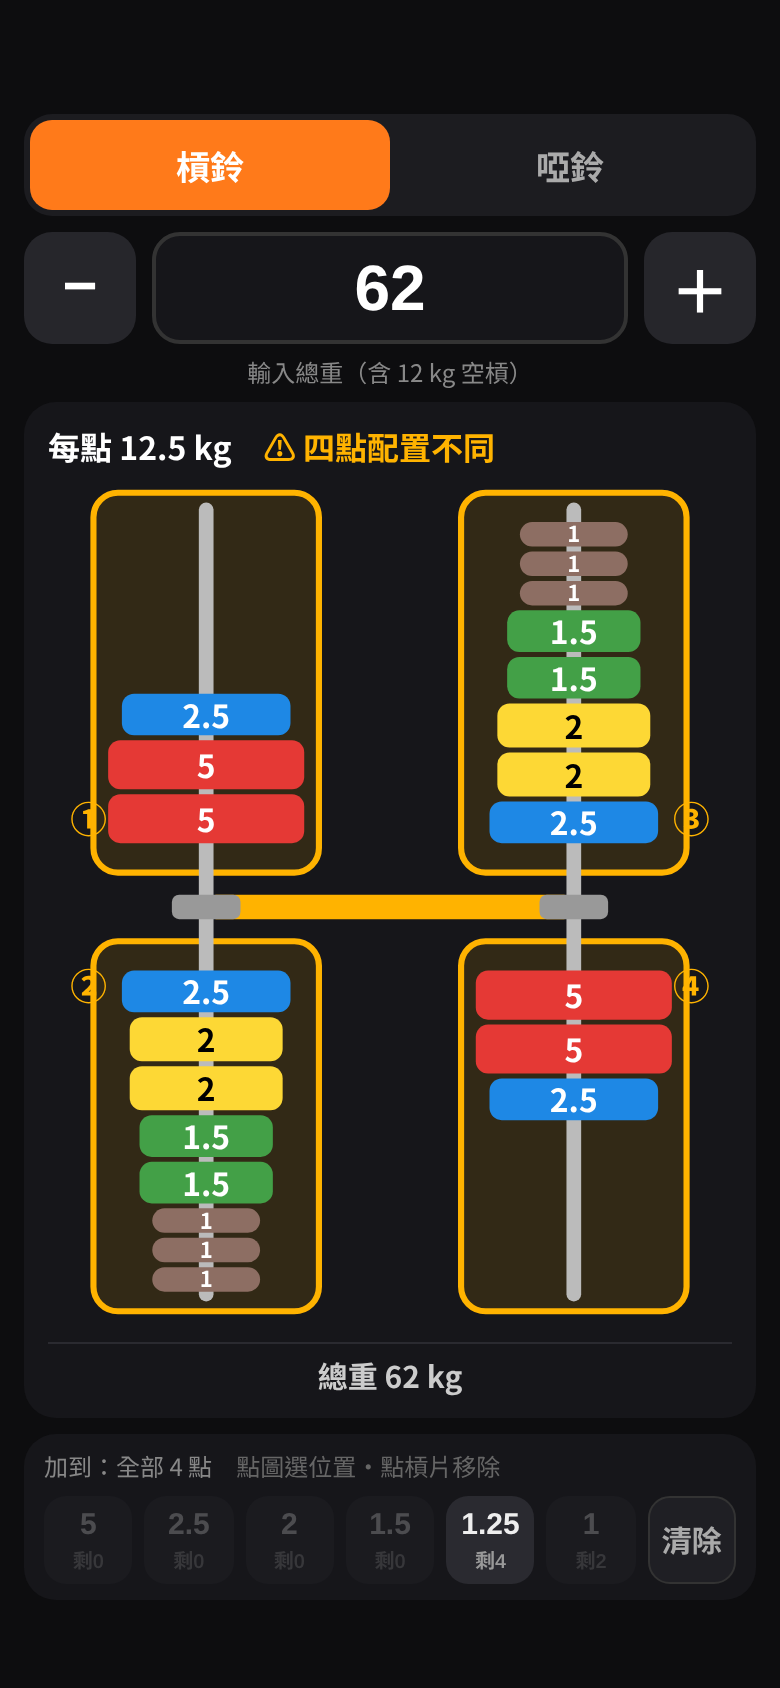
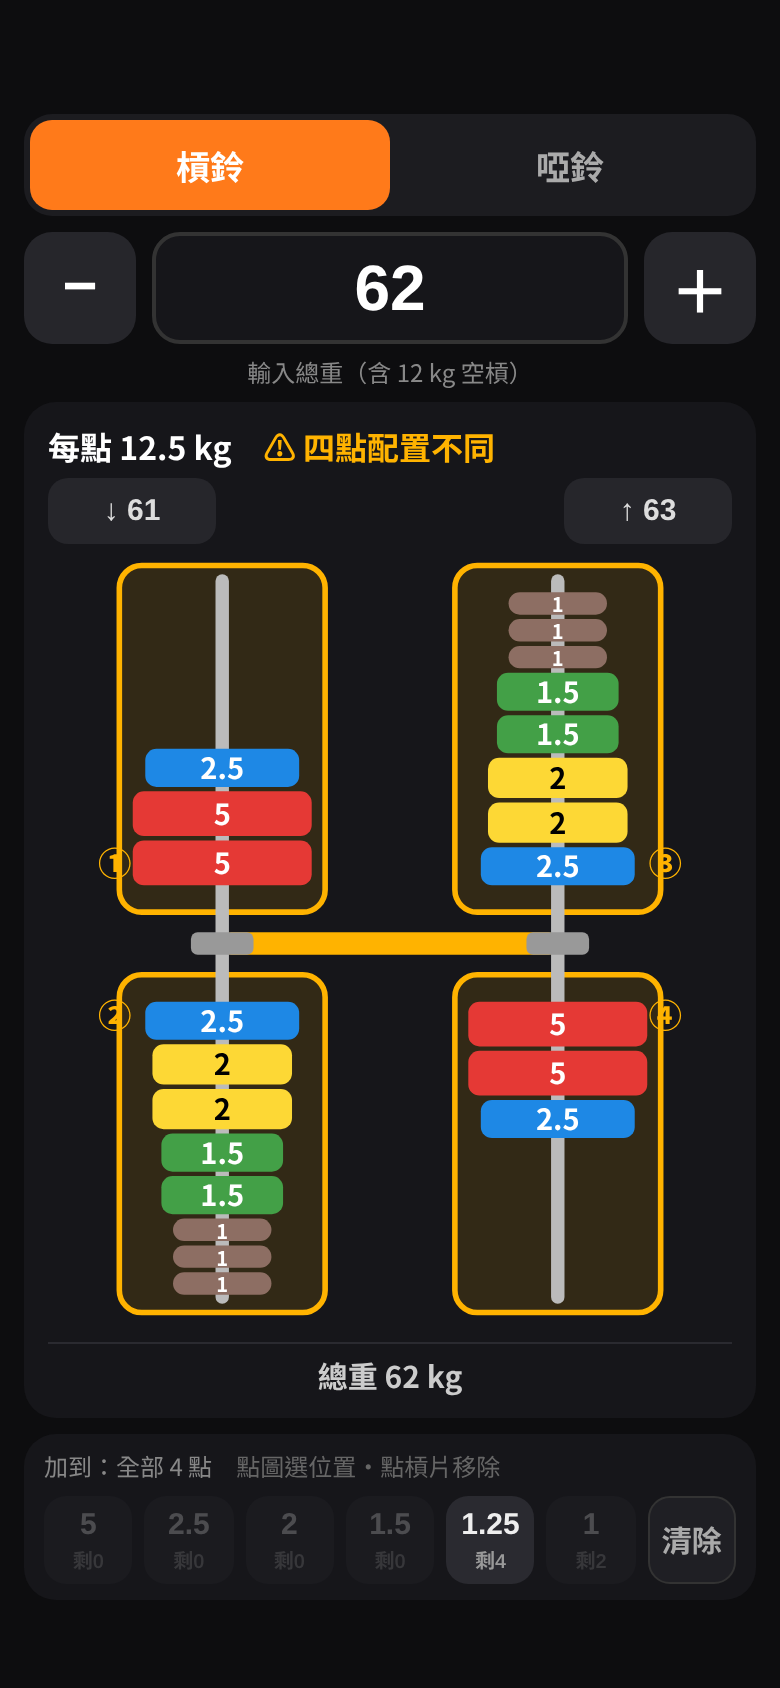
Always-on prev/next jump buttons

Changed region(s): [[0.0923, 0.2773, 0.8923, 0.8009], [0.3692, 0.7701, 0.4, 0.8009]]

diff --git a/index.html b/index.html
@@ -25,6 +25,7 @@ svg{flex:1 1 0;min-height:50px;width:100%;height:100%;display:block}
 .pbs{display:grid;grid-template-columns:repeat(auto-fit,minmax(40px,1fr));gap:6px}
 .pbs button{min-height:44px;border:0;border-radius:11px;background:#2a2a30;color:#eee;font-size:15px;font-weight:800;padding:0}
 .pbs button small{display:block;font-size:10px;font-weight:600;color:#999;margin-top:1px}
+.jump{display:flex;justify-content:space-between;gap:8px;flex:none;margin-bottom:4px}.jump button{border:0;border-radius:10px;background:#26262b;color:#ddd;font-size:15px;font-weight:700;padding:8px 14px;min-width:84px}
 .msg{margin-top:6px;color:#ff5252;font-size:13px;font-weight:700;text-align:center;flex:none}
 .pbs button:disabled{opacity:.25}
 .pbs button.clr{background:#1f1f24;color:#aaa;border:1px solid #333}
@@ -87,9 +88,10 @@ function head(r){if(!pts)return '';const ws=pts.map(c=>f2(sum(c))),eqw=ws.every(
   return `<div class="st" style="color:${HL};font-size:14px;white-space:nowrap">⚠ 各點不同 ①${ws[0]} ②${ws[1]} ③${ws[2]} ④${ws[3]}</div>`}
  const a=dbw(0),b=dbw(1);
  return `<div class="st">${ident?'<span style="color:#4caf50">四端全相同</span>':eqw?`<span style="color:${HL}">⚠ 四端配置不同（每端 ${ws[0]} kg）</span>`:`<span style="color:${HL}">⚠ ${[0,1].filter(k=>ws[2*k]!==ws[2*k+1]).map(k=>'啞鈴 '+'AB'[k]+' 左右不平衡').join('、')||'A、B 重量不同'}</span>`}</div>`}
+function jump(){const v=num(W.value),R=rows(),lo=R.filter(r=>r.t<v-0.02).pop(),hi=R.find(r=>r.t>v+0.02);return `<div class="jump">${lo?`<button onclick="setW(${lo.t})">↓ ${lo.t}</button>`:'<span></span>'}${hi?`<button onclick="setW(${hi.t})">↑ ${hi.t}</button>`:'<span></span>'}</div>`}
 function draw(){const o=$('out');
  if(!pts){return}
- let h=head()+(eq==='槓鈴'?planBB():planDB());
+ let h=head()+jump()+(eq==='槓鈴'?planBB():planDB());
  if(eq==='啞鈴'){const a=dbw(0),b=dbw(1);h+=`<div class="tot">A ${a} kg ＋ B ${b} kg ＝ 兩支合計 ${f2(a+b)} kg</div>`}
  else h+=`<div class="tot">總重 ${f2(12+pts.reduce((s,c)=>s+sum(c),0))} kg</div>`;
  if(msg)h+=`<div class="msg">${msg}</div>`;
